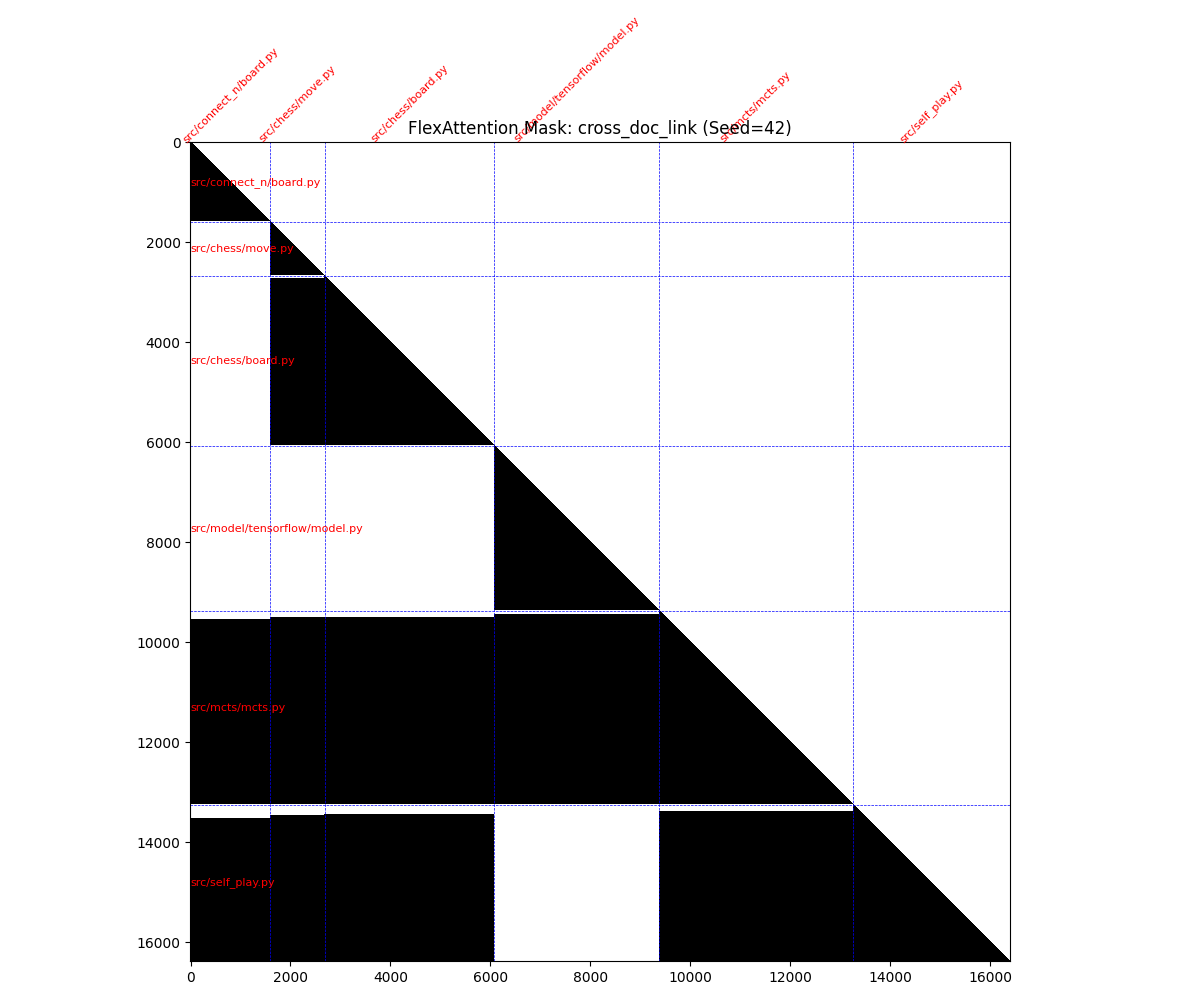
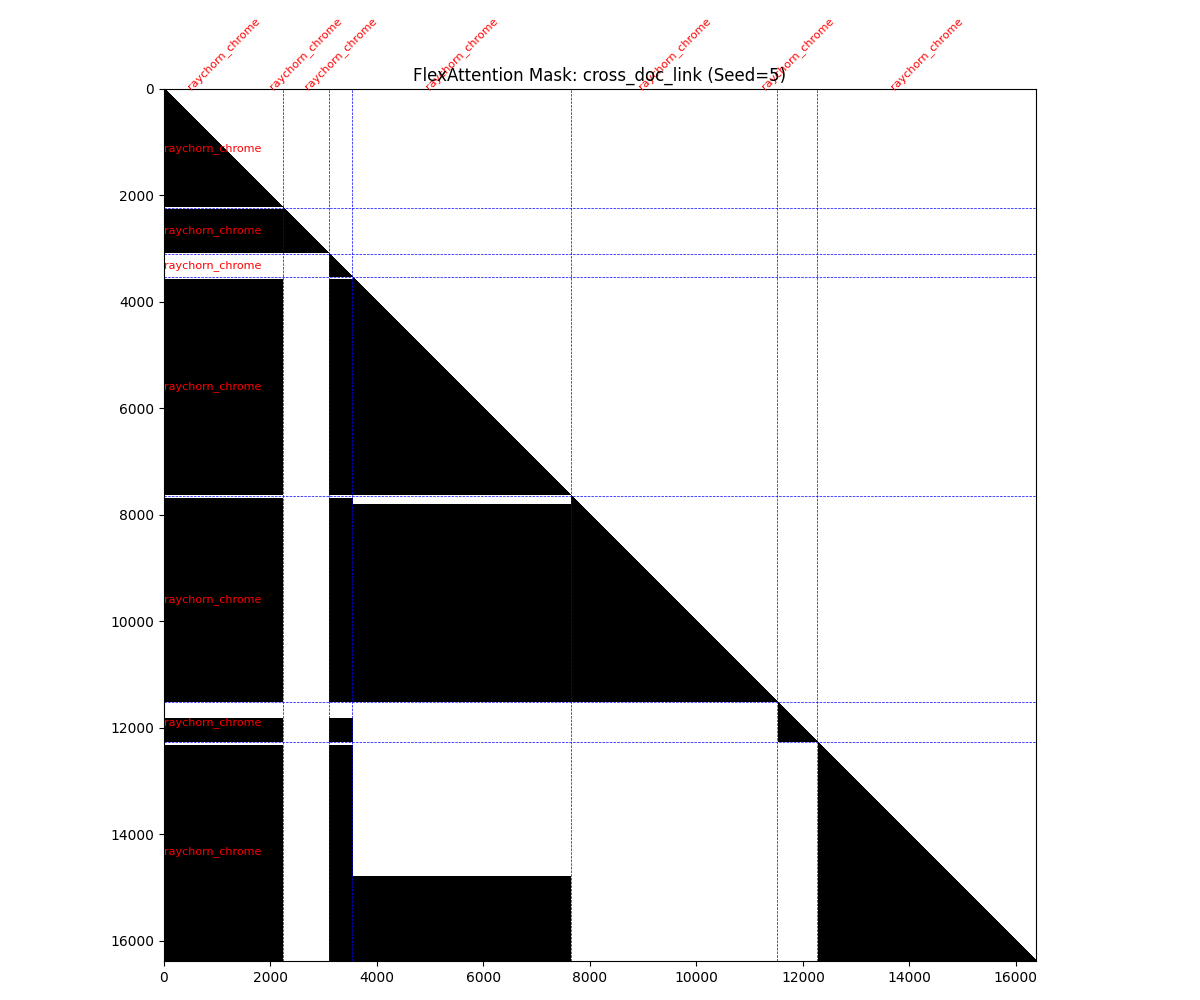
docs(readme): document the two concat compute-control masks
Add doc_concat_link and doc_concatenated to the Attention Masks section
with images, and frame all four conditions by their FLOP ordering
(doc_causal < cross_doc_link <= doc_concat_link <= doc_concatenated) so the
two concat masks read clearly as compute controls for cross_doc_link.

All four images are rendered on the SAME batch (The Stack, one repository)
so the reader sees one pack transformed four ways: isolated triangles →
gated grant blocks → whole-doc grant blocks (taller) → a single merged
super-document triangle.

diff --git a/README.md b/README.md
@@ -20,27 +20,55 @@ TAGSeq2TAGSeq exploits this structure in two ways:
 
 ## Attention Masks
 
-The attention pattern is the heart of the method. Two examples are shown below, both on the same 16k-token batch.
+The attention pattern is the heart of the method. The four conditions below are
+**all shown on the same 16k-token batch** (one repository from The Stack), ordered
+by the amount of attention they permit (and thus FLOPs per token):
+`doc_causal` < `cross_doc_link` ≤ `doc_concat_link` ≤ `doc_concatenated`. The two
+`doc_concat_*` masks exist as **compute controls**: they grant *more* attention
+than `cross_doc_link` but with no inference-time linking, so a `cross_doc_link`
+win can be attributed to the linking inductive bias rather than to extra compute.
 
 ### `doc_causal` — document-isolated causal attention
 
 Each document attends only to itself. The mask is a block-diagonal of lower triangles: no information crosses document boundaries. This is the baseline — equivalent to training on independently sampled documents, but with the efficiency benefit of packing many short documents into one long sequence.
 
-![doc_causal mask on SimpleWiki](docs/images/mask_doc_causal.png)
+![doc_causal mask on The Stack](docs/images/mask_doc_causal.png)
 
-*Each diagonal block is one Wikipedia article. Blue dashed lines mark document boundaries. Documents are completely isolated from one another.*
+*Each diagonal block is one Python file. Blue dashed lines mark document boundaries. Documents are completely isolated from one another.*
 
 ---
 
 ### `cross_doc_link` — link-aware cross-document attention
 
-When document A contains a link to document B (and B is present in the batch), all tokens in A are granted read-access to all tokens in B. The causal structure within each document is preserved; the cross-document grants are asymmetric (A can read B, but B cannot read A unless it also links back).
+When document A contains a link to document B (and B is present in the batch), tokens in A *from the link position onward* are granted read-access to all tokens in B. The causal structure within each document is preserved; the cross-document grants are asymmetric (A can read B, but B cannot read A unless it also links back).
 
 ![cross_doc_link mask on The Stack](docs/images/mask_cross_doc_link.png)
 
-*Python files from the same repository. `src/mcts/mcts.py` and `src/self_play.py` import earlier files in the batch — their rows extend leftward as large black blocks. Documents that share no imports remain isolated.*
+*Python files from one repository. Where a file imports an earlier file in the batch, its rows extend leftward as a black block — but only from the import line down, so each grant block's top edge sits below the source file's start.*
 
 This teaches the model a grounded form of cross-document reasoning: when you encounter an import or a hyperlink, the full content of the referenced document is available in your attention context.
+
+---
+
+### `doc_concat_link` — whole-document link concatenation (compute control)
+
+Identical to `cross_doc_link` except a detected link grants attention from the *entire* source document, not just from the link position onward. Equivalent to concatenating the source document onto its target. This strictly enlarges every `cross_doc_link` grant, so it isolates the effect of the precise link-position gating: same connectivity, more attention, no inference-time link prediction.
+
+![doc_concat_link mask on The Stack](docs/images/mask_doc_concat_link.png)
+
+*Same batch as `cross_doc_link` above. Each grant block now extends up to the top of its source file — compare the tall bottom-left block here against the shorter one in the previous figure, which started at the import line.*
+
+---
+
+### `doc_concatenated` — connected-component concatenation (compute control)
+
+Documents that form a connected component in the link graph (e.g. files within a repository that import one another) are merged into a single causally-concatenated super-document: full causal attention across their combined tokens. Components that share no links remain isolated, so the mask is a block-diagonal of *larger* triangles — one per component, not one per document.
+
+![doc_concatenated mask on The Stack](docs/images/mask_doc_concatenated.png)
+
+*All files in this batch are import-connected, so they merge into a single super-document triangle — the per-file boundaries (blue dashed lines) are ignored entirely. Had the batch contained an unrelated, unlinked file, it would sit in its own separate triangle.*
+
+This grants the most attention of the four conditions, with no inference-time linking — the upper compute control.
 
 ---
 
